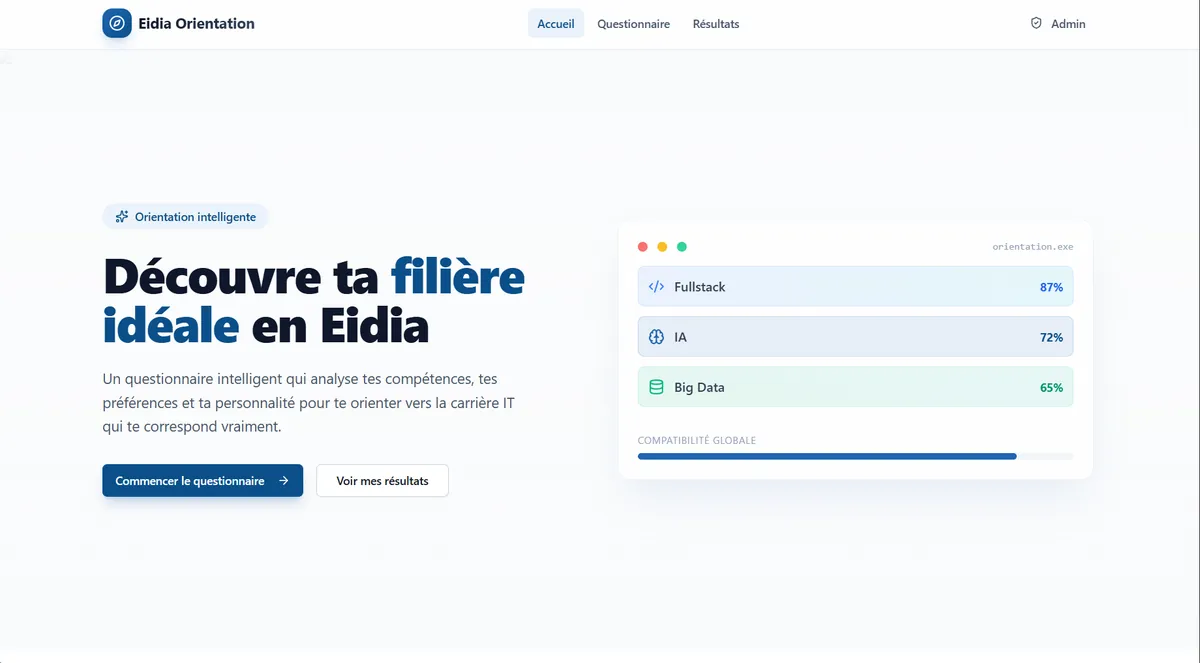
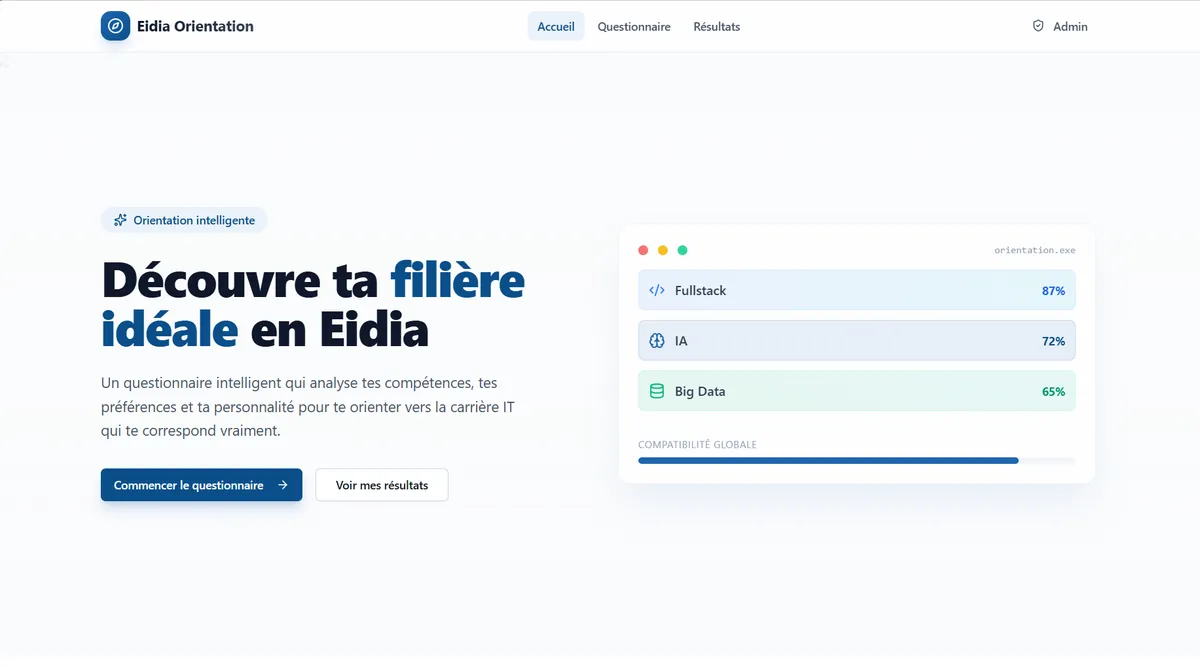
Update About portrait, Eidia screens, YEM'S live link and AIESEC date
- About: new portrait (transparent background on the ivory frame)
- Eidia: current home page capture and the results page in the gallery
- YEM'S: link to the live site maisonyems.com on the home row, projects
  card and project page
- Certifications: Global Volunteering Program dated September 2025

Claude-Session: https://claude.ai/code/session_01TaKQq4ZKFStiEudSF5ioRm

diff --git a/project-yems.html b/project-yems.html
@@ -82,8 +82,8 @@
       <p class="standfirst rv">A shoe house in Cotonou, with an online shop <em>built around how people actually buy there.</em></p>
       <p class="lead rv">Yem's sells shoes and leather goods in Benin and Côte d'Ivoire. I designed and built the whole site: identity, copy, catalogue, a bespoke configurator, an ordering flow that takes no payment upfront, and an admin screen for the atelier.</p>
       <div class="actions rv">
-        <a href="https://github.com/abou-arch/Site_ecommerce_Yem-s" target="_blank" rel="noopener" class="btn btn-gold">Source code <svg viewBox="0 0 24 24" fill="currentColor" aria-hidden="true"><path d="M12 2C6.48 2 2 6.48 2 12c0 4.42 2.87 8.17 6.84 9.5.5.09.68-.22.68-.48v-1.7c-2.78.6-3.37-1.34-3.37-1.34-.45-1.16-1.11-1.47-1.11-1.47-.91-.62.07-.6.07-.6 1 .07 1.53 1.03 1.53 1.03.9 1.53 2.34 1.09 2.91.83.09-.65.35-1.09.63-1.34-2.22-.25-4.55-1.11-4.55-4.94 0-1.09.39-1.98 1.03-2.68-.1-.25-.45-1.27.1-2.64 0 0 .84-.27 2.75 1.02a9.6 9.6 0 015 0c1.91-1.29 2.75-1.02 2.75-1.02.55 1.37.2 2.39.1 2.64.64.7 1.03 1.59 1.03 2.68 0 3.84-2.34 4.69-4.57 4.94.36.31.68.92.68 1.85v2.74c0 .27.18.58.69.48A10 10 0 0022 12c0-5.52-4.48-10-10-10z"/></svg></a>
-        <a href="#visuals" class="btn btn-ghost">See the screens</a>
+        <a href="https://maisonyems.com" target="_blank" rel="noopener" class="btn btn-gold">Visit maisonyems.com <svg class="out" viewBox="0 0 24 24" fill="none" stroke="currentColor" stroke-width="1.8" stroke-linecap="round" stroke-linejoin="round" aria-hidden="true"><path d="M7 17L17 7M8 7h9v9"/></svg></a>
+        <a href="https://github.com/abou-arch/Site_ecommerce_Yem-s" target="_blank" rel="noopener" class="btn btn-ghost">Source code <svg viewBox="0 0 24 24" fill="currentColor" aria-hidden="true"><path d="M12 2C6.48 2 2 6.48 2 12c0 4.42 2.87 8.17 6.84 9.5.5.09.68-.22.68-.48v-1.7c-2.78.6-3.37-1.34-3.37-1.34-.45-1.16-1.11-1.47-1.11-1.47-.91-.62.07-.6.07-.6 1 .07 1.53 1.03 1.53 1.03.9 1.53 2.34 1.09 2.91.83.09-.65.35-1.09.63-1.34-2.22-.25-4.55-1.11-4.55-4.94 0-1.09.39-1.98 1.03-2.68-.1-.25-.45-1.27.1-2.64 0 0 .84-.27 2.75 1.02a9.6 9.6 0 015 0c1.91-1.29 2.75-1.02 2.75-1.02.55 1.37.2 2.39.1 2.64.64.7 1.03 1.59 1.03 2.68 0 3.84-2.34 4.69-4.57 4.94.36.31.68.92.68 1.85v2.74c0 .27.18.58.69.48A10 10 0 0022 12c0-5.52-4.48-10-10-10z"/></svg></a>
       </div>
     </div>
     <figure class="shot rv">
@@ -159,7 +159,7 @@
         <p class="ch-label"><span>05</span>Real outcome</p>
         <div>
           <h2>What exists today.</h2>
-          <p>A complete, documented e-commerce site: 23 generated pages, a working configurator, an ordering flow, an admin, legal pages, and a step-by-step deployment guide written for the owner.</p>
+          <p>The site is live at <a href="https://maisonyems.com" target="_blank" rel="noopener" style="color:var(--gold);border-bottom:1px solid rgba(212,175,124,.4)">maisonyems.com</a>: a complete, documented e-commerce site with 23 generated pages, a working configurator, an ordering flow, an admin, legal pages, and a step-by-step deployment guide written for the owner.</p>
           <p class="honest"><b>What this page doesn't claim.</b> There are no visit, order or revenue figures here: the site deliberately runs no analytics, and online payment is not switched on yet. Product visuals on the shop are AI-generated and labelled as such on the site.</p>
         </div>
       </div>
@@ -193,8 +193,8 @@
         <div><dt>Role</dt><dd>Brand, copywriting, design, front-end and back-end development</dd></div>
         <div><dt>Technologies</dt><dd><div class="chips"><span class="chip">HTML</span><span class="chip">CSS</span><span class="chip">JavaScript</span><span class="chip">Python</span><span class="chip">Cloudflare Workers</span><span class="chip">PostgreSQL</span></div></dd></div>
         <div><dt>Market</dt><dd>Benin and Côte d'Ivoire</dd></div>
-        <div><dt>Status</dt><dd>Built and documented · online payment switched off</dd></div>
-        <div><dt>Source</dt><dd><a href="https://github.com/abou-arch/Site_ecommerce_Yem-s" target="_blank" rel="noopener">github.com/abou-arch</a></dd></div>
+        <div><dt>Status</dt><dd>Live · online payment not switched on yet</dd></div>
+        <div><dt>Links</dt><dd><a href="https://maisonyems.com" target="_blank" rel="noopener">maisonyems.com</a> · <a href="https://github.com/abou-arch/Site_ecommerce_Yem-s" target="_blank" rel="noopener">Source code</a></dd></div>
       </dl>
     </aside>
   </div>

diff --git a/index.html b/index.html
@@ -179,7 +179,7 @@
     <div class="work-rows">
       <article class="work-row">
         <a class="work-media rv" href="project-eidia.html" tabindex="-1" aria-hidden="true">
-          <img src="images/work/eidia-1200.webp" srcset="images/work/eidia-640.webp 640w, images/work/eidia-1200.webp 1200w" sizes="(min-width: 960px) 720px, 100vw" alt="" width="1200" height="663" loading="lazy" decoding="async">
+          <img src="images/work/eidia-1200.webp" srcset="images/work/eidia-640.webp 640w, images/work/eidia-1200.webp 1200w" sizes="(min-width: 960px) 720px, 100vw" alt="" width="1200" height="668" loading="lazy" decoding="async">
         </a>
         <div class="work-text rv">
           <div class="meta"><span class="idx">01</span><span class="label">Web application · EdTech</span></div>
@@ -206,6 +206,7 @@
           <div class="chips"><span class="chip">HTML / CSS / JS</span><span class="chip">Python</span><span class="chip">Cloudflare Workers</span><span class="chip">PostgreSQL</span></div>
           <div class="work-links">
             <a class="link" href="project-yems.html">Case study <svg class="arrow" viewBox="0 0 24 24" fill="none" stroke="currentColor" stroke-width="1.8" stroke-linecap="round" stroke-linejoin="round" aria-hidden="true"><path d="M5 12h14M13 6l6 6-6 6"/></svg></a>
+            <a class="link" href="https://maisonyems.com" target="_blank" rel="noopener">Live site <svg class="out" viewBox="0 0 24 24" fill="none" stroke="currentColor" stroke-width="1.8" stroke-linecap="round" stroke-linejoin="round" aria-hidden="true"><path d="M7 17L17 7M8 7h9v9"/></svg></a>
             <a class="link" href="https://github.com/abou-arch/Site_ecommerce_Yem-s" target="_blank" rel="noopener">Source code <svg class="out" viewBox="0 0 24 24" fill="none" stroke="currentColor" stroke-width="1.8" stroke-linecap="round" stroke-linejoin="round" aria-hidden="true"><path d="M7 17L17 7M8 7h9v9"/></svg></a>
           </div>
         </div>
@@ -267,7 +268,7 @@
   <div class="wrap about-grid">
     <div class="portrait rv">
       <figure>
-        <img src="images/abou-800.webp" srcset="images/abou-480.webp 480w, images/abou-800.webp 800w" sizes="(min-width: 920px) 460px, 90vw" alt="Portrait of Abou Camara" width="800" height="1000" loading="lazy" decoding="async">
+        <img src="images/abou-800.webp" srcset="images/abou-480.webp 480w, images/abou-800.webp 800w" sizes="(min-width: 920px) 460px, 90vw" alt="Abou Camara seated in an office chair, chin resting on his hand" width="800" height="1000" loading="lazy" decoding="async">
       </figure>
       <figcaption><b>Abou Camara</b><span>Fès, Morocco</span></figcaption>
     </div>

diff --git a/work.html b/work.html
@@ -100,7 +100,7 @@
 
       <article class="wcard rv" data-cats="web">
         <a class="work-media" href="project-eidia.html" tabindex="-1" aria-hidden="true">
-          <img src="images/work/eidia-1200.webp" srcset="images/work/eidia-640.webp 640w, images/work/eidia-1200.webp 1200w" sizes="(min-width: 820px) 600px, 100vw" alt="" width="1200" height="663" loading="lazy" decoding="async">
+          <img src="images/work/eidia-1200.webp" srcset="images/work/eidia-640.webp 640w, images/work/eidia-1200.webp 1200w" sizes="(min-width: 820px) 600px, 100vw" alt="" width="1200" height="668" loading="lazy" decoding="async">
         </a>
         <div class="wcard-body">
           <p class="label" style="margin-bottom:12px">Web application · EdTech</p>
@@ -122,11 +122,12 @@
         <div class="wcard-body">
           <p class="label" style="margin-bottom:12px">E-commerce · Brand · Full-stack</p>
           <h2><a href="project-yems.html">YEM&rsquo;S <svg class="out" viewBox="0 0 24 24" fill="none" stroke="currentColor" stroke-width="1.8" stroke-linecap="round" stroke-linejoin="round" aria-hidden="true"><path d="M7 17L17 7M8 7h9v9"/></svg></a></h2>
-          <p class="sub">Shoe and leather-goods house, Cotonou</p>
+          <p class="sub">Shoe and leather-goods house, Cotonou · live</p>
           <p>A complete online shop: brand identity and copy, a bespoke configurator, an order-now, pay-on-delivery checkout and an admin screen for the atelier.</p>
           <div class="chips"><span class="chip">HTML / CSS / JS</span><span class="chip">Python</span><span class="chip">Cloudflare Workers</span><span class="chip">PostgreSQL</span></div>
           <div class="work-links">
             <a class="link" href="project-yems.html">Case study <svg class="arrow" viewBox="0 0 24 24" fill="none" stroke="currentColor" stroke-width="1.8" stroke-linecap="round" stroke-linejoin="round" aria-hidden="true"><path d="M5 12h14M13 6l6 6-6 6"/></svg></a>
+            <a class="link" href="https://maisonyems.com" target="_blank" rel="noopener">Live site <svg class="out" viewBox="0 0 24 24" fill="none" stroke="currentColor" stroke-width="1.8" stroke-linecap="round" stroke-linejoin="round" aria-hidden="true"><path d="M7 17L17 7M8 7h9v9"/></svg></a>
             <a class="link" href="https://github.com/abou-arch/Site_ecommerce_Yem-s" target="_blank" rel="noopener">Source code <svg class="out" viewBox="0 0 24 24" fill="none" stroke="currentColor" stroke-width="1.8" stroke-linecap="round" stroke-linejoin="round" aria-hidden="true"><path d="M7 17L17 7M8 7h9v9"/></svg></a>
           </div>
         </div>

diff --git a/project-eidia.html b/project-eidia.html
@@ -88,7 +88,7 @@
     </div>
     <figure class="shot rv">
       <div class="shot-bar" aria-hidden="true"><i></i><i></i><i></i><span>Home page</span></div>
-      <img src="images/work/eidia-1200.webp" srcset="images/work/eidia-640.webp 640w, images/work/eidia-1200.webp 1200w" sizes="(min-width: 1000px) 660px, 100vw" alt="Eidia Orientation home page: “Découvre ta filière idéale”, with a preview of compatibility scores per track" width="1200" height="663" fetchpriority="high">
+      <img src="images/work/eidia-1200.webp" srcset="images/work/eidia-640.webp 640w, images/work/eidia-1200.webp 1200w" sizes="(min-width: 1000px) 660px, 100vw" alt="Eidia Orientation home page: “Découvre ta filière idéale en Eidia”, with a preview of compatibility scores per track" width="1200" height="668" fetchpriority="high">
     </figure>
   </div>
   <div class="wrap">
@@ -160,10 +160,14 @@
       <div class="chapter rv" id="visuals">
         <p class="ch-label"><span>06</span>Visuals</p>
         <div>
-          <h2>Screens.</h2>
+          <h2>Screens from the live demo.</h2>
           <div class="gallery">
             <figure class="wide">
-              <div class="shot"><img src="images/work/eidia-home-1200.webp" srcset="images/work/eidia-home-640.webp 640w, images/work/eidia-home-1200.webp 1200w" sizes="(min-width: 1000px) 720px, 100vw" alt="Eidia Orientation home page, full width" width="1200" height="675" loading="lazy" decoding="async"></div>
+              <div class="shot"><img src="images/work/eidia-results-1200.webp" srcset="images/work/eidia-results-640.webp 640w, images/work/eidia-results-1200.webp 1200w" sizes="(min-width: 1000px) 720px, 100vw" alt="Eidia Orientation results page: a radar profile, the top three tracks as bars, and ranked cards for Big Data, Full-stack and AI with compatibility percentages" width="1200" height="658" loading="lazy" decoding="async"></div>
+              <figcaption>Results page · radar profile, top three and ranked tracks (example answers)</figcaption>
+            </figure>
+            <figure class="wide">
+              <div class="shot"><img src="images/work/eidia-1200.webp" srcset="images/work/eidia-640.webp 640w, images/work/eidia-1200.webp 1200w" sizes="(min-width: 1000px) 720px, 100vw" alt="Eidia Orientation home page, full width" width="1200" height="668" loading="lazy" decoding="async"></div>
               <figcaption>Home page</figcaption>
             </figure>
           </div>

diff --git a/certificates.html b/certificates.html
@@ -219,10 +219,10 @@
           <p>Recognised for participation in the Global Volunteering Program: cross-cultural teamwork and sustained commitment to a shared objective.</p>
           <div class="chips"><span class="chip gold">Volunteering</span><span class="chip">Leadership</span></div>
           <div class="cert-meta">
-            <span class="date"><svg viewBox="0 0 24 24" fill="none" stroke="currentColor" stroke-width="1.6" stroke-linecap="round" stroke-linejoin="round" aria-hidden="true"><rect x="3" y="4" width="18" height="18" rx="3"/><path d="M16 2v4M8 2v4M3 10h18"/></svg>AIESEC in Fez, Morocco</span>
+            <span class="date"><svg viewBox="0 0 24 24" fill="none" stroke="currentColor" stroke-width="1.6" stroke-linecap="round" stroke-linejoin="round" aria-hidden="true"><rect x="3" y="4" width="18" height="18" rx="3"/><path d="M16 2v4M8 2v4M3 10h18"/></svg>September 2025</span>
             <a class="link" href="certs/aiesec-volunteer.jpg" target="_blank" rel="noopener">View the certificate <svg class="out" viewBox="0 0 24 24" fill="none" stroke="currentColor" stroke-width="1.8" stroke-linecap="round" stroke-linejoin="round" aria-hidden="true"><path d="M7 17L17 7M8 7h9v9"/></svg><span class="sr-only"> (opens the original document)</span></a>
           </div>
-          
+          <span class="ref">AIESEC in Fez, Morocco</span>
         </div>
       </article>
     </div>
